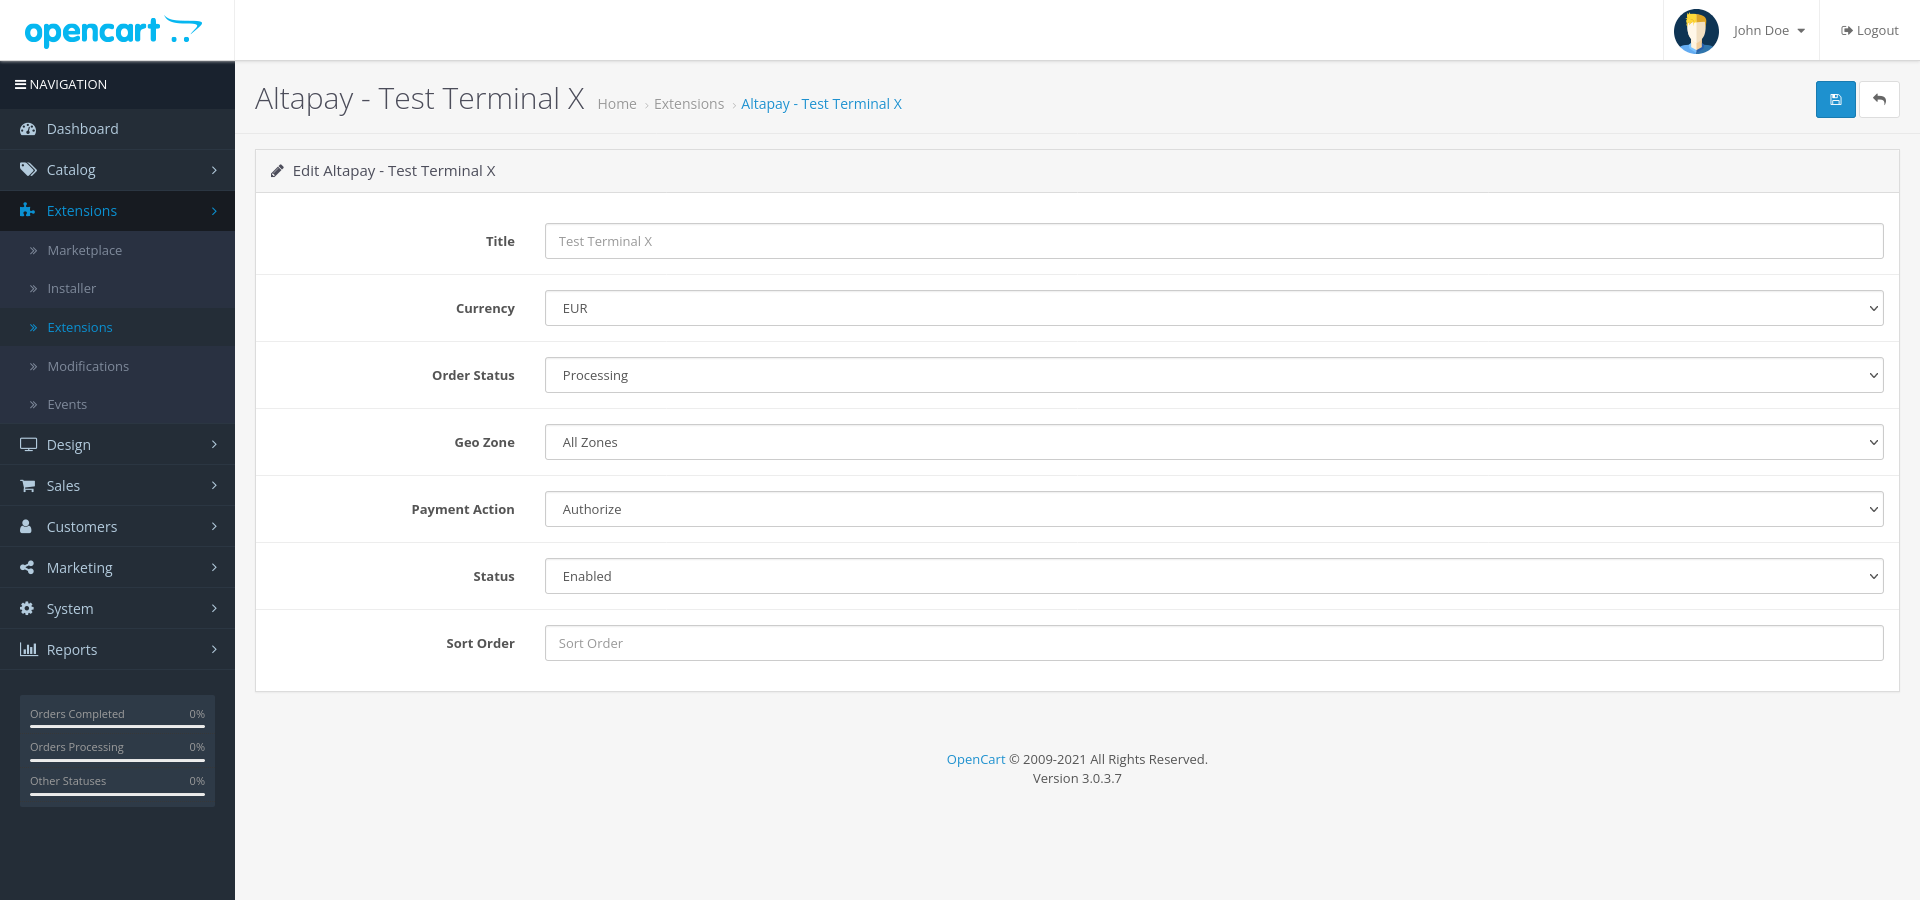
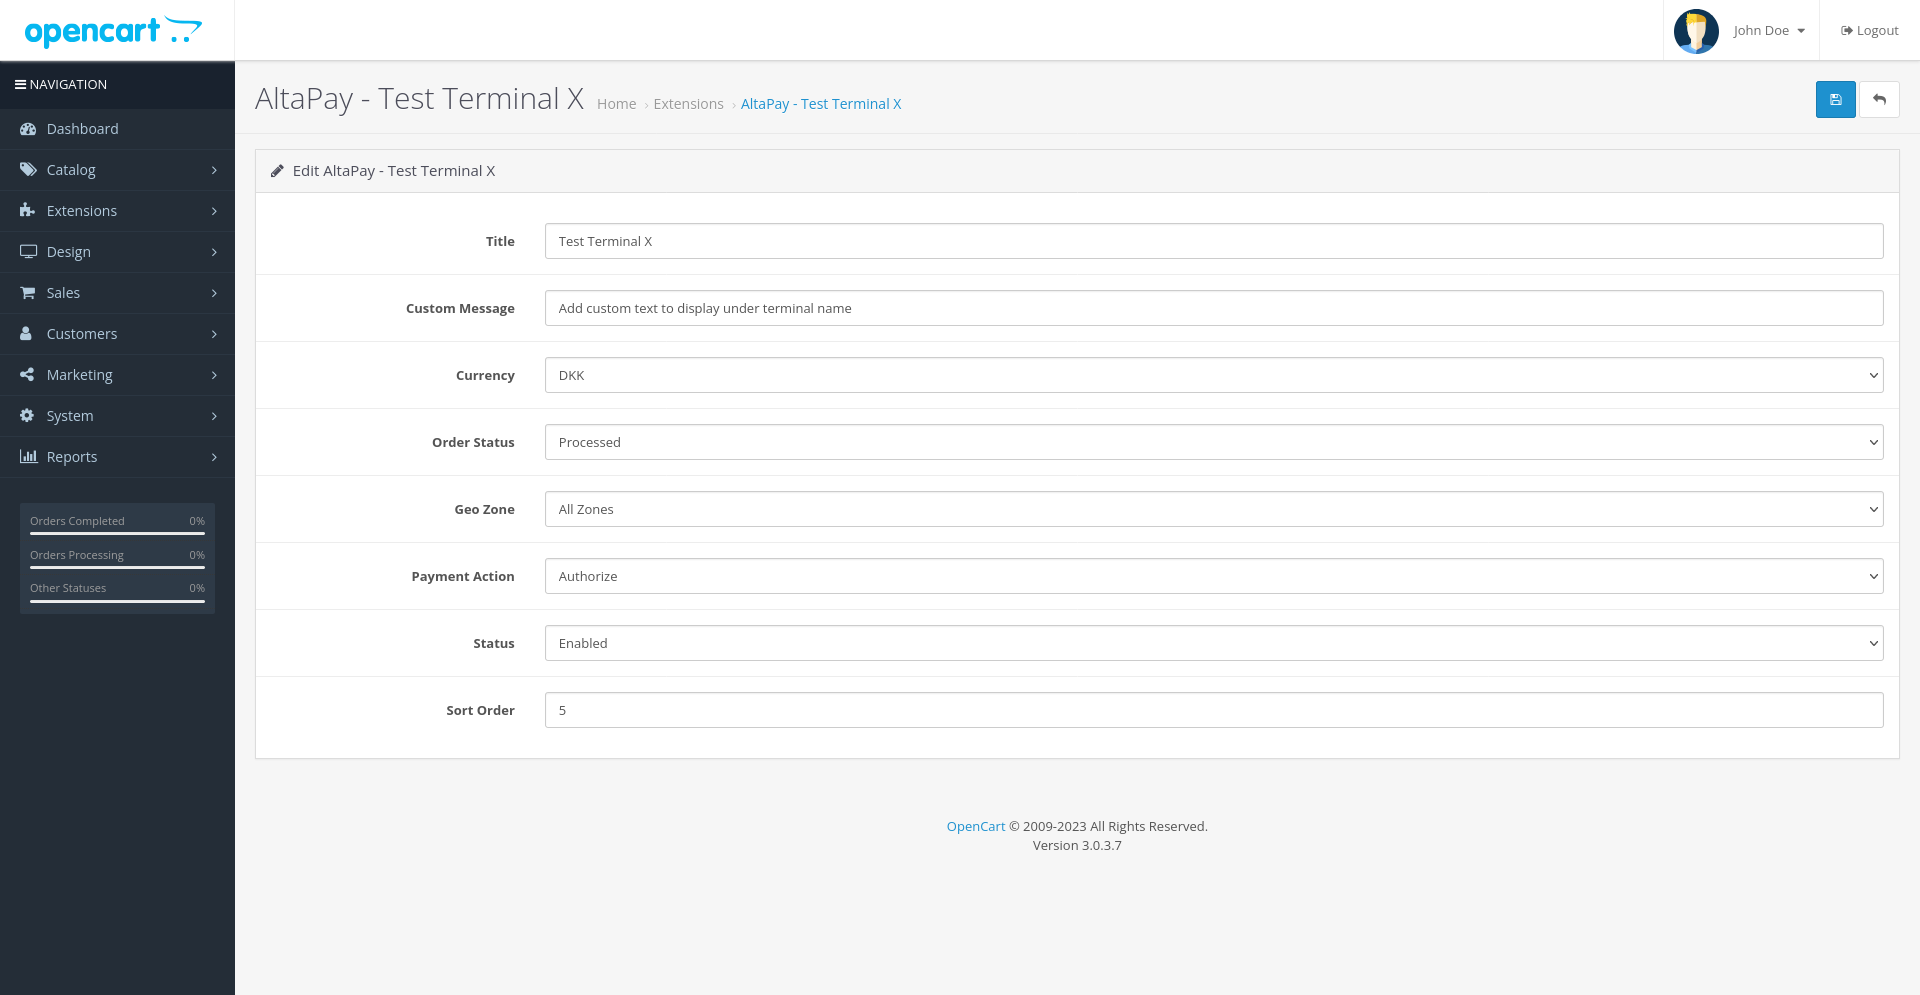
make terminal display name dynamic, add functionality to display custom message with terminal name on checkout page

diff --git a/tests/integration-tests/cypress/integration/PageObjects/objects.js b/tests/integration-tests/cypress/integration/PageObjects/objects.js
@@ -62,6 +62,7 @@ class Order {
         cy.get('#button-payment-method').click().wait(3000)
         cy.get('#button-confirm').click()
         //Klarna Form
+        cy.get('#radio_pay_later').click().wait(3000)
         cy.get('#submitbutton').click().wait(10000)
         cy.get('[id=klarna-pay-later-fullscreen]').wait(4000).then(function($iFrame){
             const mobileNum = $iFrame.contents().find('[id=email_or_phone]')

diff --git a/admin/controller/altapay/templates/admin/controller/altapay.twig.php b/admin/controller/altapay/templates/admin/controller/altapay.twig.php
@@ -58,6 +58,7 @@ class ControllerExtensionPaymentAltapay{key} extends Controller
         $data['text_title']      = $this->language->get('text_title');
 
         $data['entry_title']          = $this->language->get('entry_title');
+        $data['entry_custom_message'] = $this->language->get('entry_custom_message');
         $data['entry_order_status']   = $this->language->get('entry_order_status');
         $data['entry_total']          = $this->language->get('entry_total');
         $data['entry_geo_zone']       = $this->language->get('entry_geo_zone');
@@ -107,6 +108,12 @@ class ControllerExtensionPaymentAltapay{key} extends Controller
             $data['payment_altapay_{key}_title'] = $this->request->post['payment_Altapay_{key}_title'];
         } else {
             $data['payment_altapay_{key}_title'] = $this->config->get('payment_Altapay_{key}_title');
+        }
+
+        if (isset($this->request->post['payment_Altapay_{key}_custom_message'])) {
+            $data['payment_altapay_{key}_custom_message'] = $this->request->post['payment_Altapay_{key}_custom_message'];
+        } else {
+            $data['payment_altapay_{key}_custom_message'] = $this->config->get('payment_Altapay_{key}_custom_message');
         }
 
         if (isset($this->request->post['payment_Altapay_{key}_total'])) {

diff --git a/terminal-config/altapay_config.php b/terminal-config/altapay_config.php
@@ -88,6 +88,7 @@ try {
 
             // Add settings for each terminal
             addSettingField($db, 'payment_Altapay_' . $termKey, 'payment_Altapay_' . $termKey . '_title', $termName);
+            addSettingField($db, 'payment_Altapay_' . $termKey, 'payment_Altapay_' . $termKey . '_custom_message', '');
             addSettingField($db, 'payment_Altapay_' . $termKey, 'payment_Altapay_' . $termKey . '_currency_id', $currencyId);
             addSettingField($db, 'payment_Altapay_' . $termKey, 'payment_Altapay_' . $termKey . '_order_status_id', '15');
             addSettingField($db, 'payment_Altapay_' . $termKey, 'payment_Altapay_' . $termKey . '_geo_zone_id', '0');

diff --git a/admin/controller/altapay/templates/catalog/model/altapay.twig.php b/admin/controller/altapay/templates/catalog/model/altapay.twig.php
@@ -21,8 +21,8 @@ class ModelExtensionPaymentAltapay{key} extends Model {
 
 			$method_data = array(
 				'code'       => 'Altapay_{key}',
-				'title'      => $this->language->get('text_title'),
-				'terms'      => '',
+				'title'      => $this->config->get('payment_Altapay_{key}_title'),
+				'terms'      => $this->config->get('payment_Altapay_{key}_custom_message'),
 				'sort_order' => $this->config->get('payment_altapay_sort_order')
 			);
 		}

diff --git a/admin/controller/traits/traits.php b/admin/controller/traits/traits.php
@@ -13,7 +13,7 @@ trait traitTransactionInfo
             'ecomPlatform'         => 'OpenCart',
             'ecomVersion'          => VERSION,
             'altapayPluginName'    => 'AltaPay',
-            'altapayPluginVersion' => '3.6',
+            'altapayPluginVersion' => '3.7',
             'otherInfo'            => $otherinfo,
         );
 

diff --git a/catalog/traits/traits.php b/catalog/traits/traits.php
@@ -13,7 +13,7 @@ trait traitTransactionInfo
             'ecomPlatform'         => 'OpenCart',
             'ecomVersion'          => VERSION,
             'altapayPluginName'    => 'AltaPay',
-            'altapayPluginVersion' => '3.6',
+            'altapayPluginVersion' => '3.7',
             'otherInfo'            => $otherinfo,
         );
 

diff --git a/admin/controller/altapay/templates/admin/language/altapay.twig.php b/admin/controller/altapay/templates/admin/language/altapay.twig.php
@@ -13,6 +13,7 @@ $_['text_Altapay_{key}']			= '<img src="view/image/payment/altapay.jpg" alt="Alt
 
 // Entry
 $_['entry_title']					= 'Title';
+$_['entry_custom_message']			= 'Custom Message';
 $_['entry_total']					= 'Total';
 $_['entry_order_status']			= 'Order Status';
 $_['entry_geo_zone']				= 'Geo Zone';

diff --git a/admin/controller/altapay/templates/catalog/language/altapay.twig.php b/admin/controller/altapay/templates/catalog/language/altapay.twig.php
@@ -1,5 +1,6 @@
 <?php
 // Text
 $_['text_title'] = '{name}';
+$_['text_custom_message'] = 'Add custom text to display under terminal name';
 $_['payment_window_title'] = 'Payment';
 

diff --git a/wiki.md b/wiki.md
@@ -97,6 +97,11 @@ The standard configuration connects the plugin with the test gateway. Take the f
     <td>Assign a title to the terminal</td>
   </tr>
   <tr>
+  <tr>
+    <td><strong>Custom Message</strong></td>
+    <td>In this optional field, you can add custom message for the customers. e.g. guidelines from Danish Forbrugerombudsmanden.</td>
+  </tr>
+  <tr>
     <td><strong>Currency</strong></td>
     <td>Select a currency from the drop down list</td>
   </tr>

diff --git a/CHANGELOG.md b/CHANGELOG.md
@@ -1,3 +1,5 @@
+## [3.7]
+- Add text field for custom message to be shown with terminal name on checkout.
 ## [3.6]
 - Add option to export reconciliation data in CSV.
 ## [3.5]
